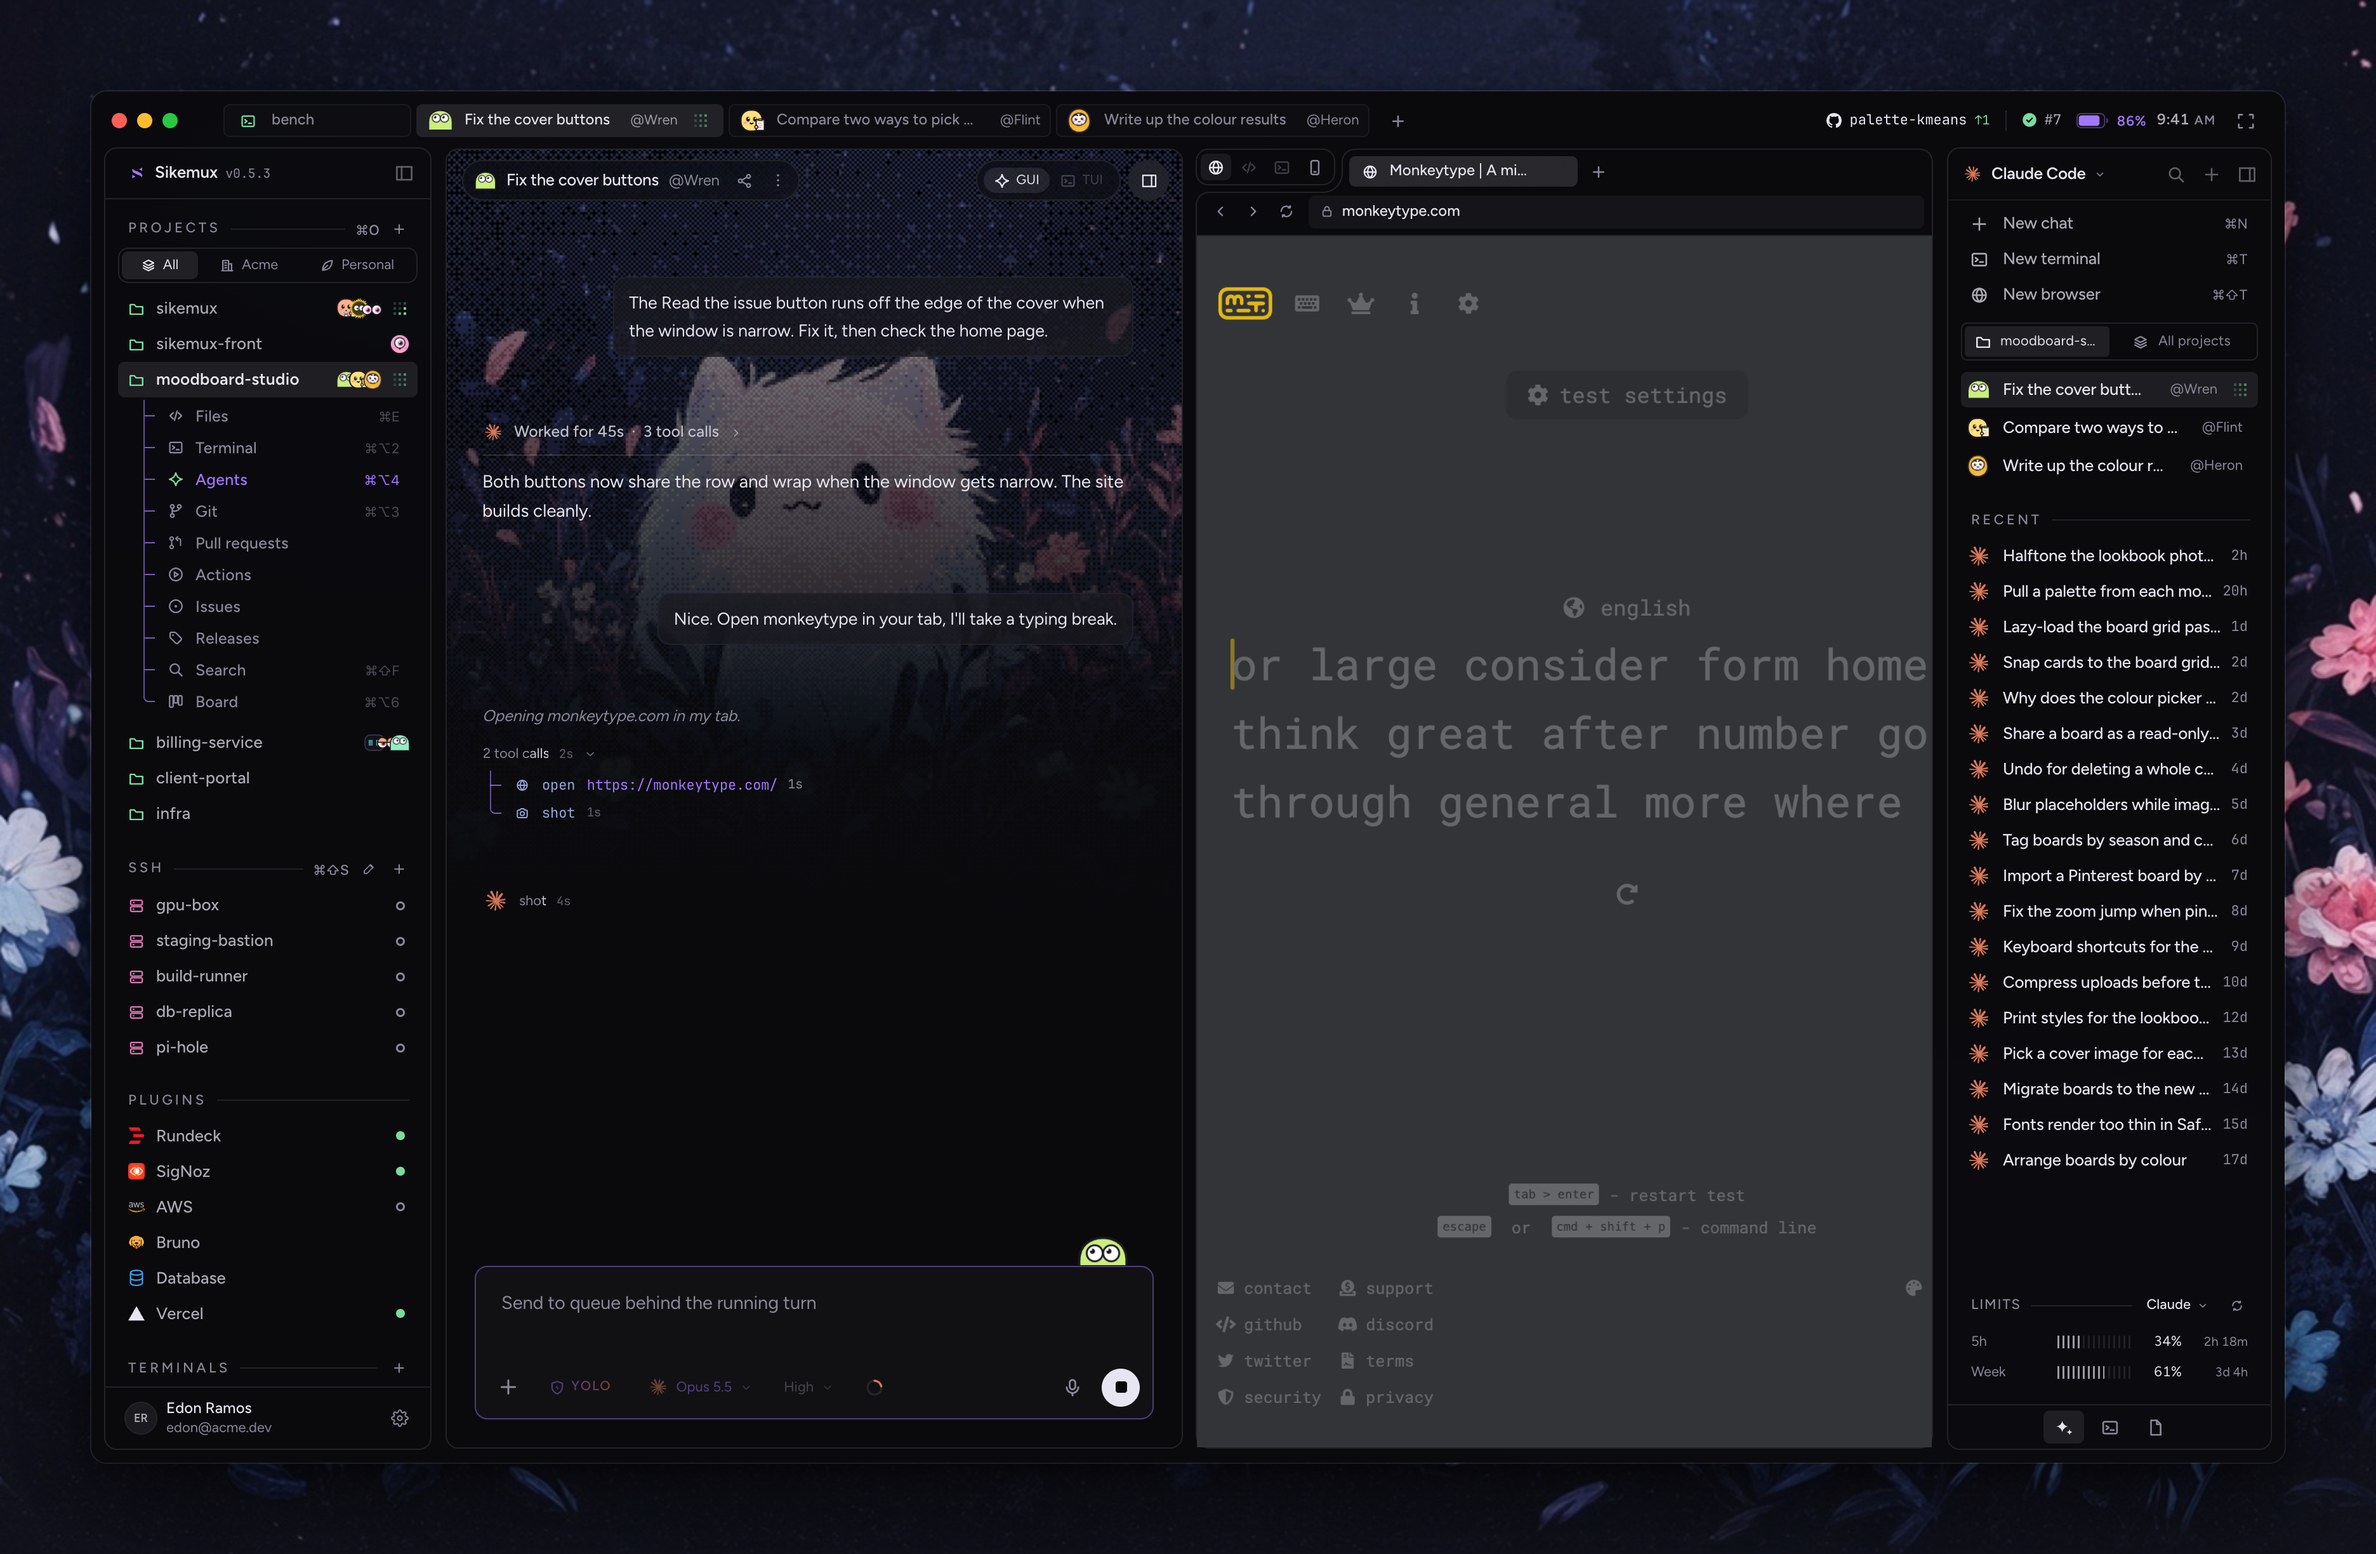
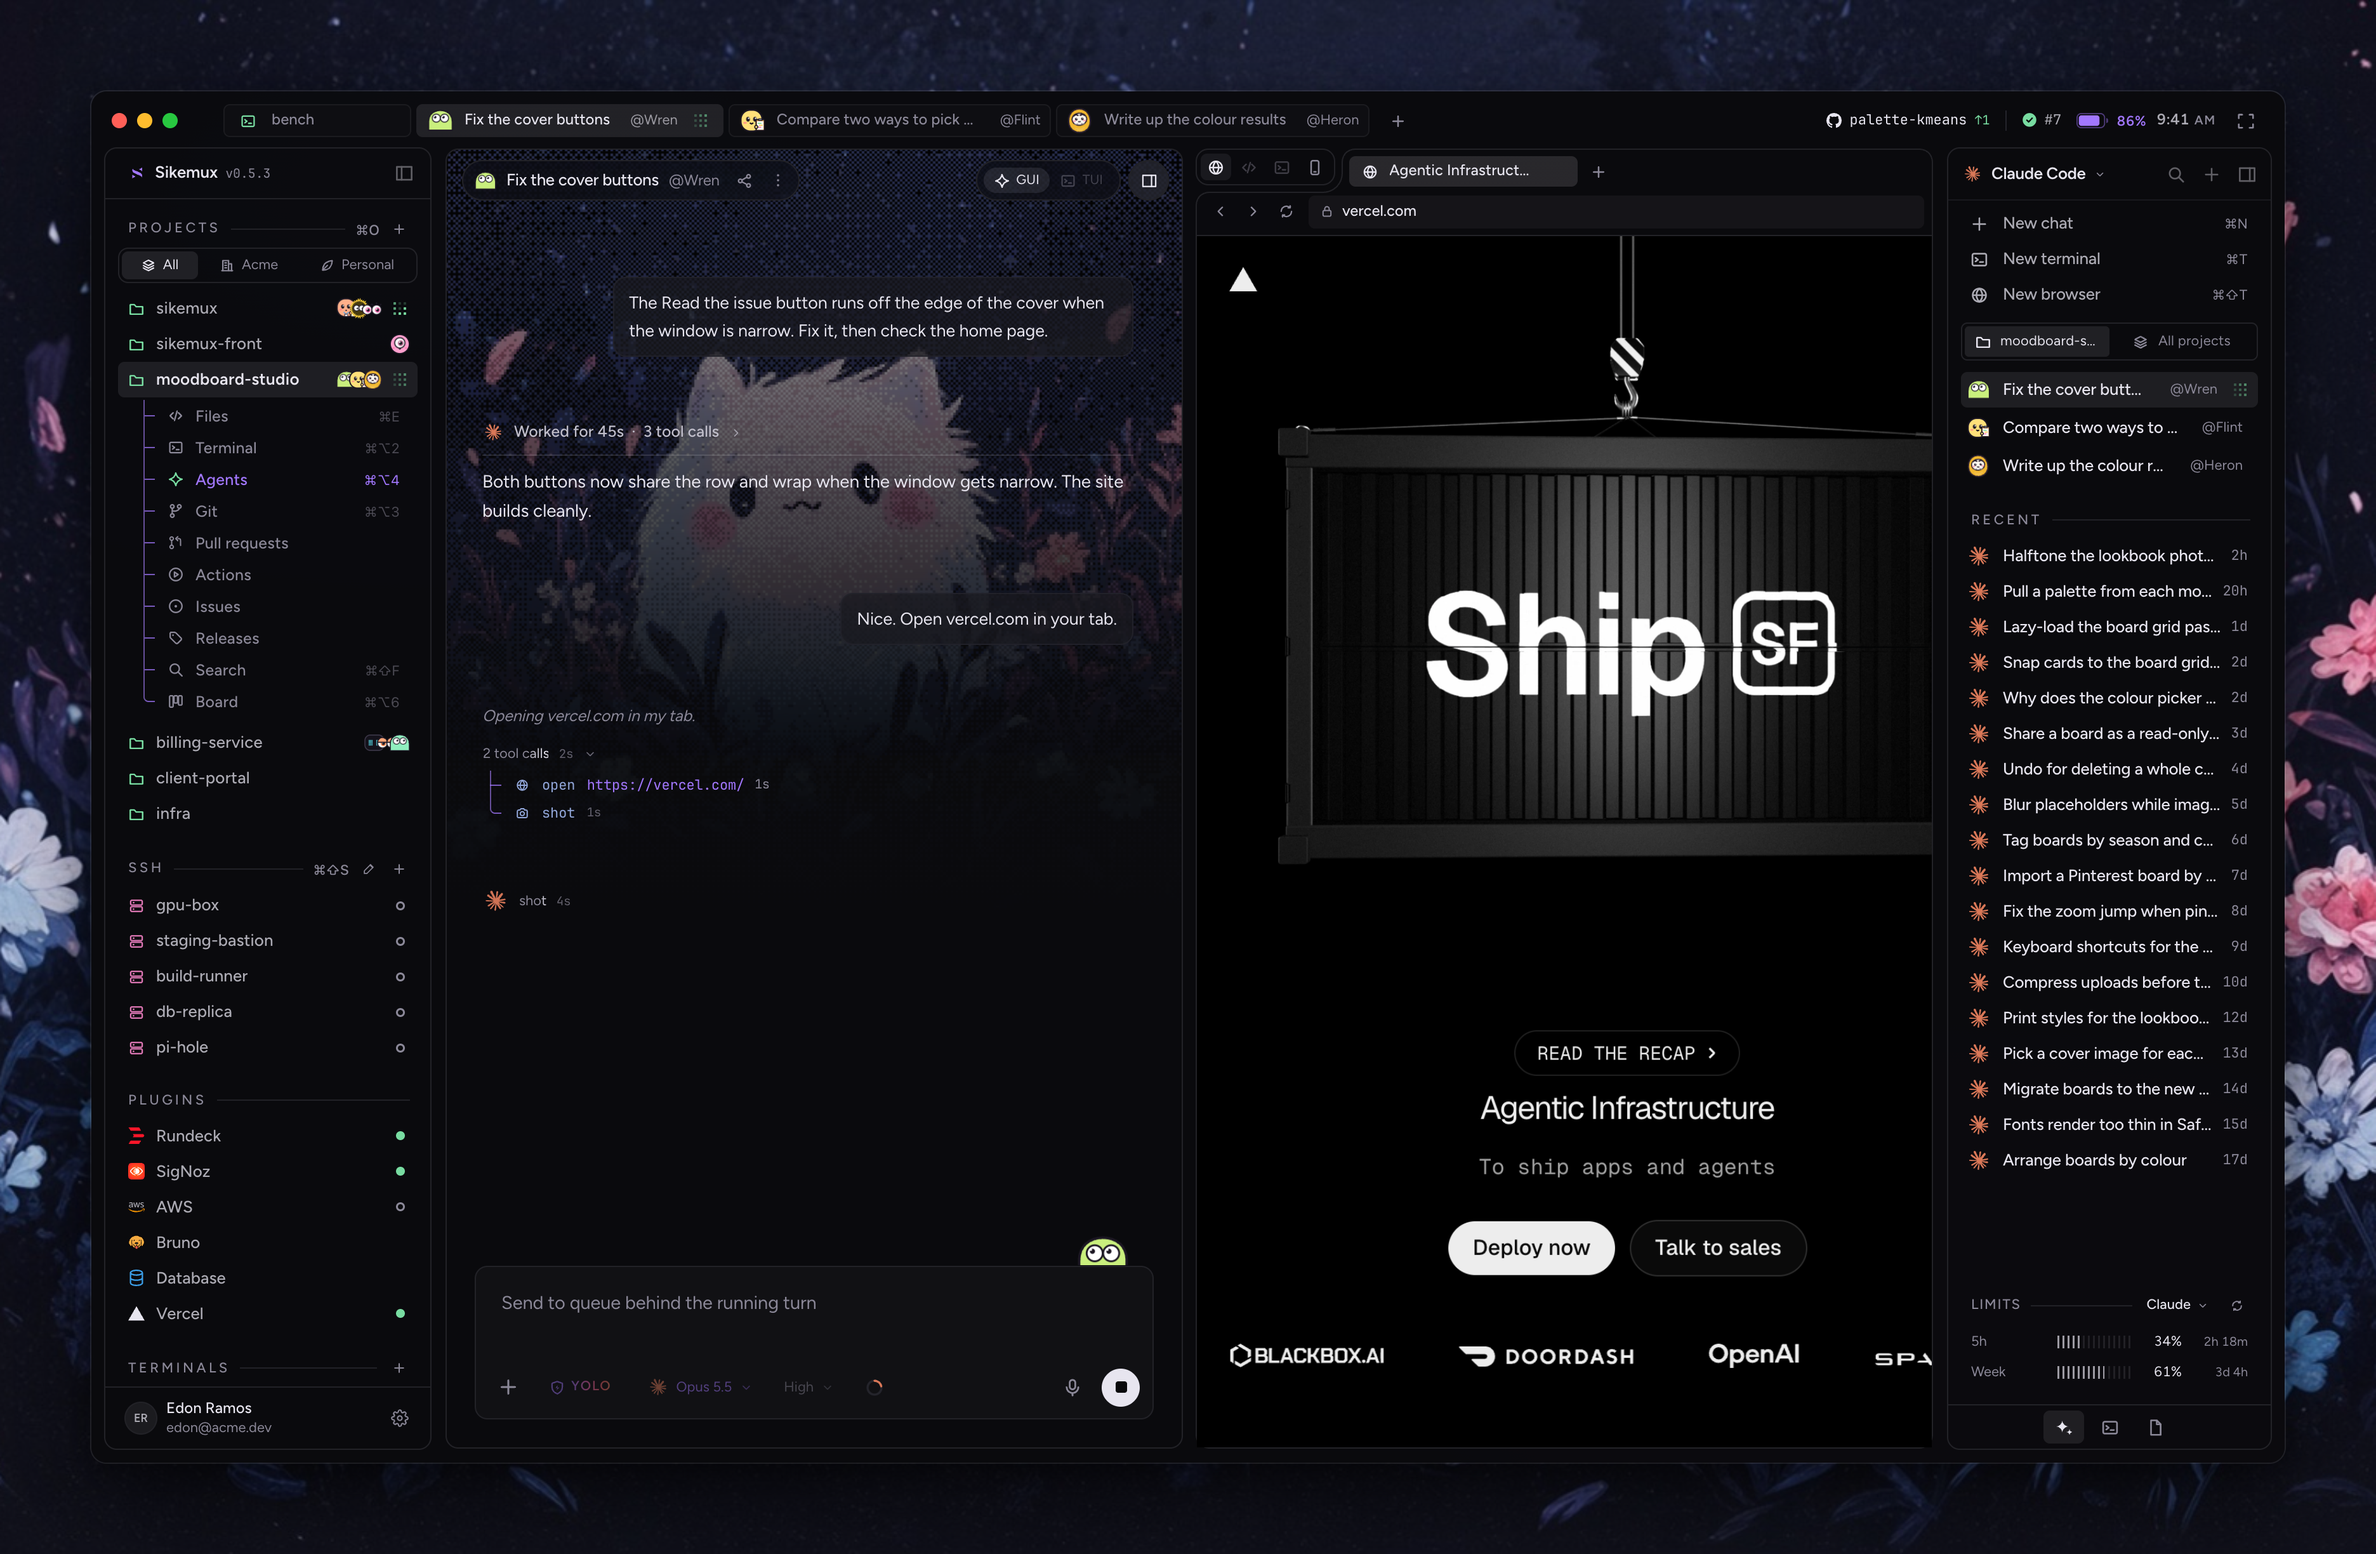
feat(showcase): the hero agent's browser tab opens vercel.com
Agent: Sumac (claude 2.1.296, opus[1m], sikemux 0.5.3-nightly.7, session 3f9a6c99-dc8b-4f78-933c-23697a09728b, chat agent-e2a462751757404b80c3e7e3d184612a, host 6fdffd7f80b033ac)
Agent: Ibex (claude 2.1.296, sikemux 0.5.3-nightly.7, session 074495b6-d303-48c4-9f92-c5d5c2367262, chat agent-jfdhhk-mve090eg-9, host 6fdffd7f80b033ac)
Agent-Signature: FuT/xjfmMJCo/TQeF301IAD91MBYvmr3aYPJdx1LGvUepaV+JXZ6cbOKYq6CEqL488VsmFS7ouPi0Zv+6rDIDQ

Changed region(s): [[0.5, 0.0931, 0.8125, 0.9314], [0.3438, 0.3725, 0.4688, 0.4036], [0.25, 0.4346, 0.2812, 0.4657]]

diff --git a/showcase/world/agents.ts b/showcase/world/agents.ts
@@ -237,12 +237,12 @@ export const AGENT_SCRIPTS: Record<string, AgentScript> = {
       say(
         "Both buttons now share the row and wrap when the window gets narrow. The site builds cleanly.",
       ),
-      user("Nice. Open monkeytype in your tab, I'll take a typing break."),
+      user("Nice. Open vercel.com in your tab."),
     ],
     live: [
-      think("Opening monkeytype.com in my tab."),
+      think("Opening vercel.com in my tab."),
       tool("fetch", "mcp__sikemux-tools__browser_navigate", {
-        rawInput: { url: "https://monkeytype.com/" },
+        rawInput: { url: "https://vercel.com/" },
         durationMs: 1_400,
       }),
       tool(

diff --git a/showcase/browserPage.ts b/showcase/browserPage.ts
@@ -20,8 +20,8 @@ export const BROWSER_TABS: Record<
     tabs: [
       tab(
         "tab-site",
-        "https://monkeytype.com/",
-        "Monkeytype | A minimalistic, customizable typing test",
+        "https://vercel.com/",
+        "Agentic Infrastructure - Vercel",
         true,
       ),
     ],
@@ -30,7 +30,7 @@ export const BROWSER_TABS: Record<
 };
 
 const SNAPSHOTS: Record<string, string> = {
-  [AGENTS.hero.id]: "/showcase/pages/monkeytype.png",
+  [AGENTS.hero.id]: "/showcase/pages/vercel.png",
 };
 const frames = new Map<string, HTMLImageElement>();
 
